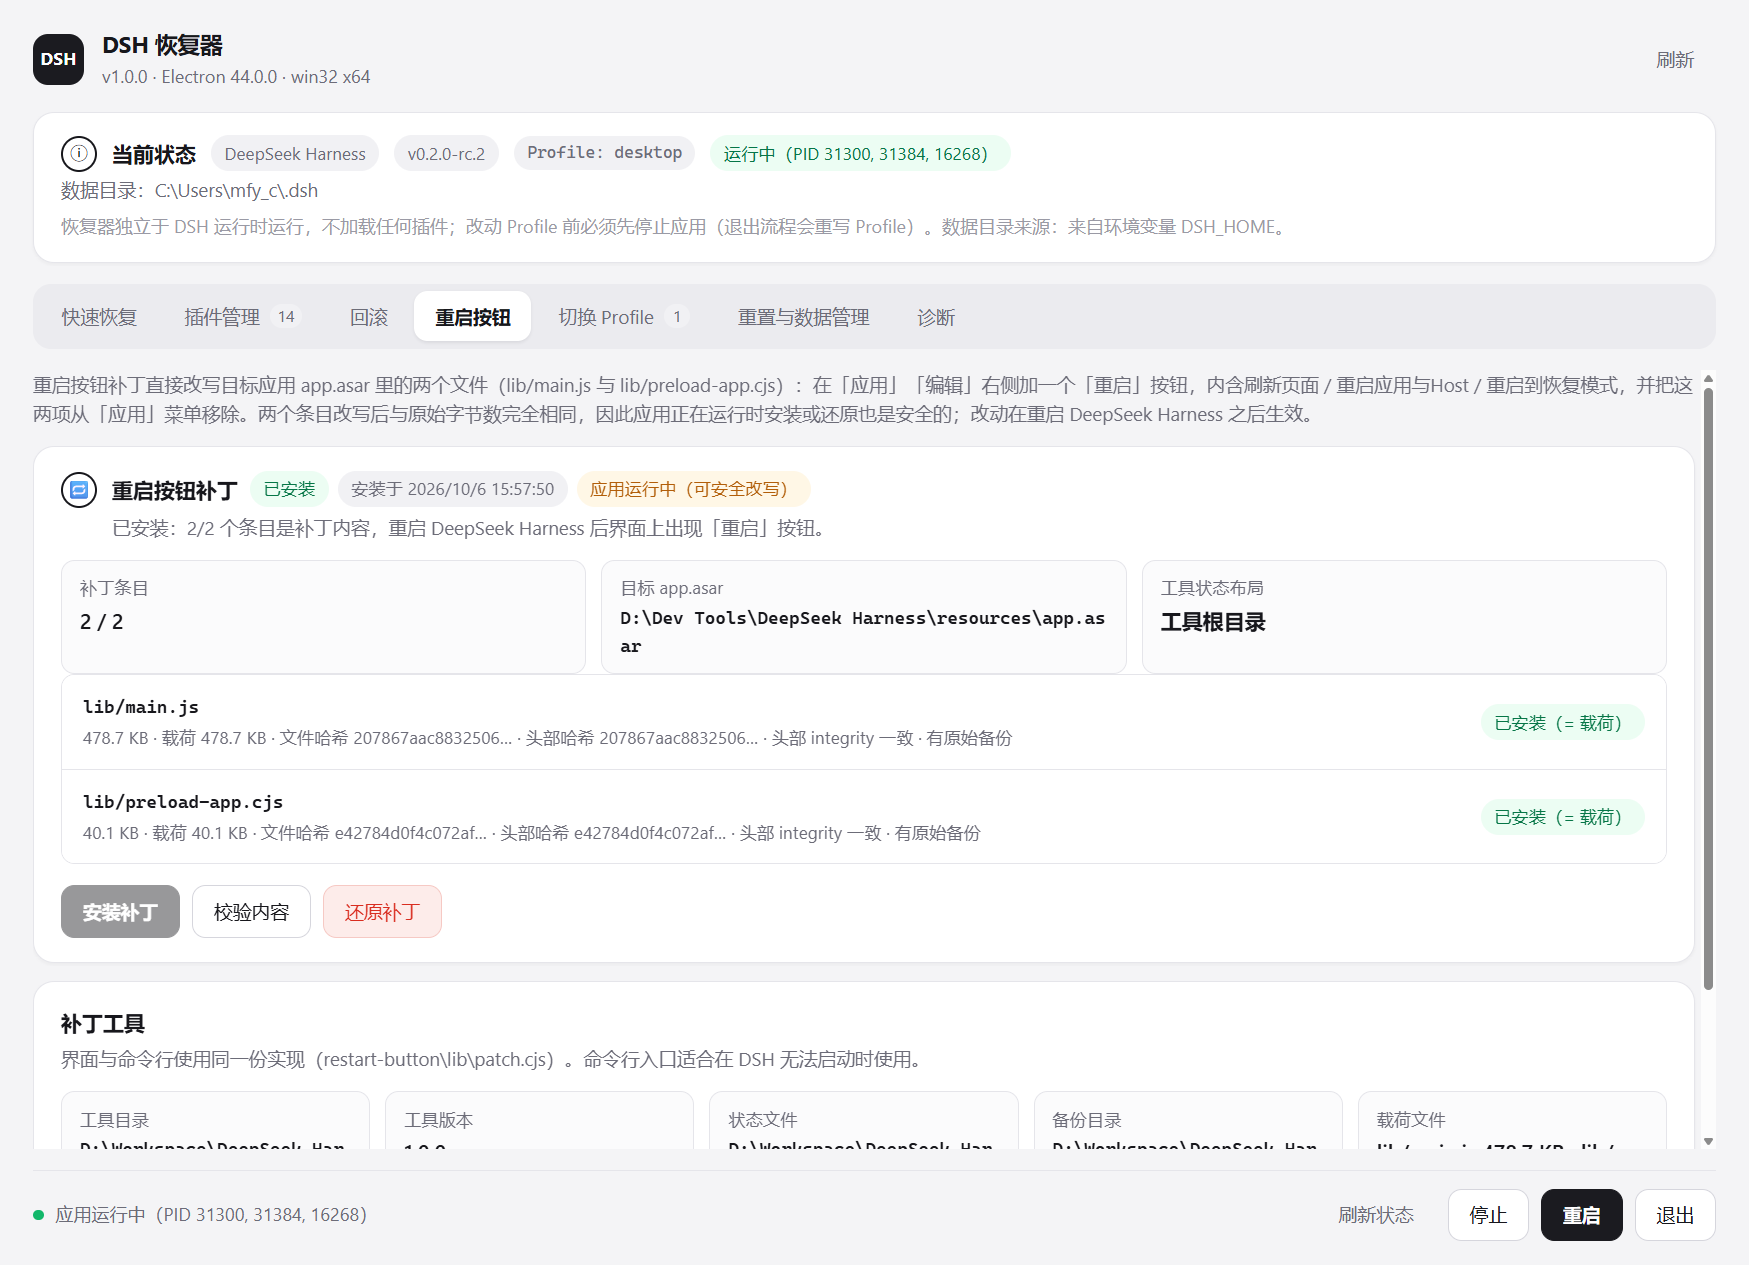
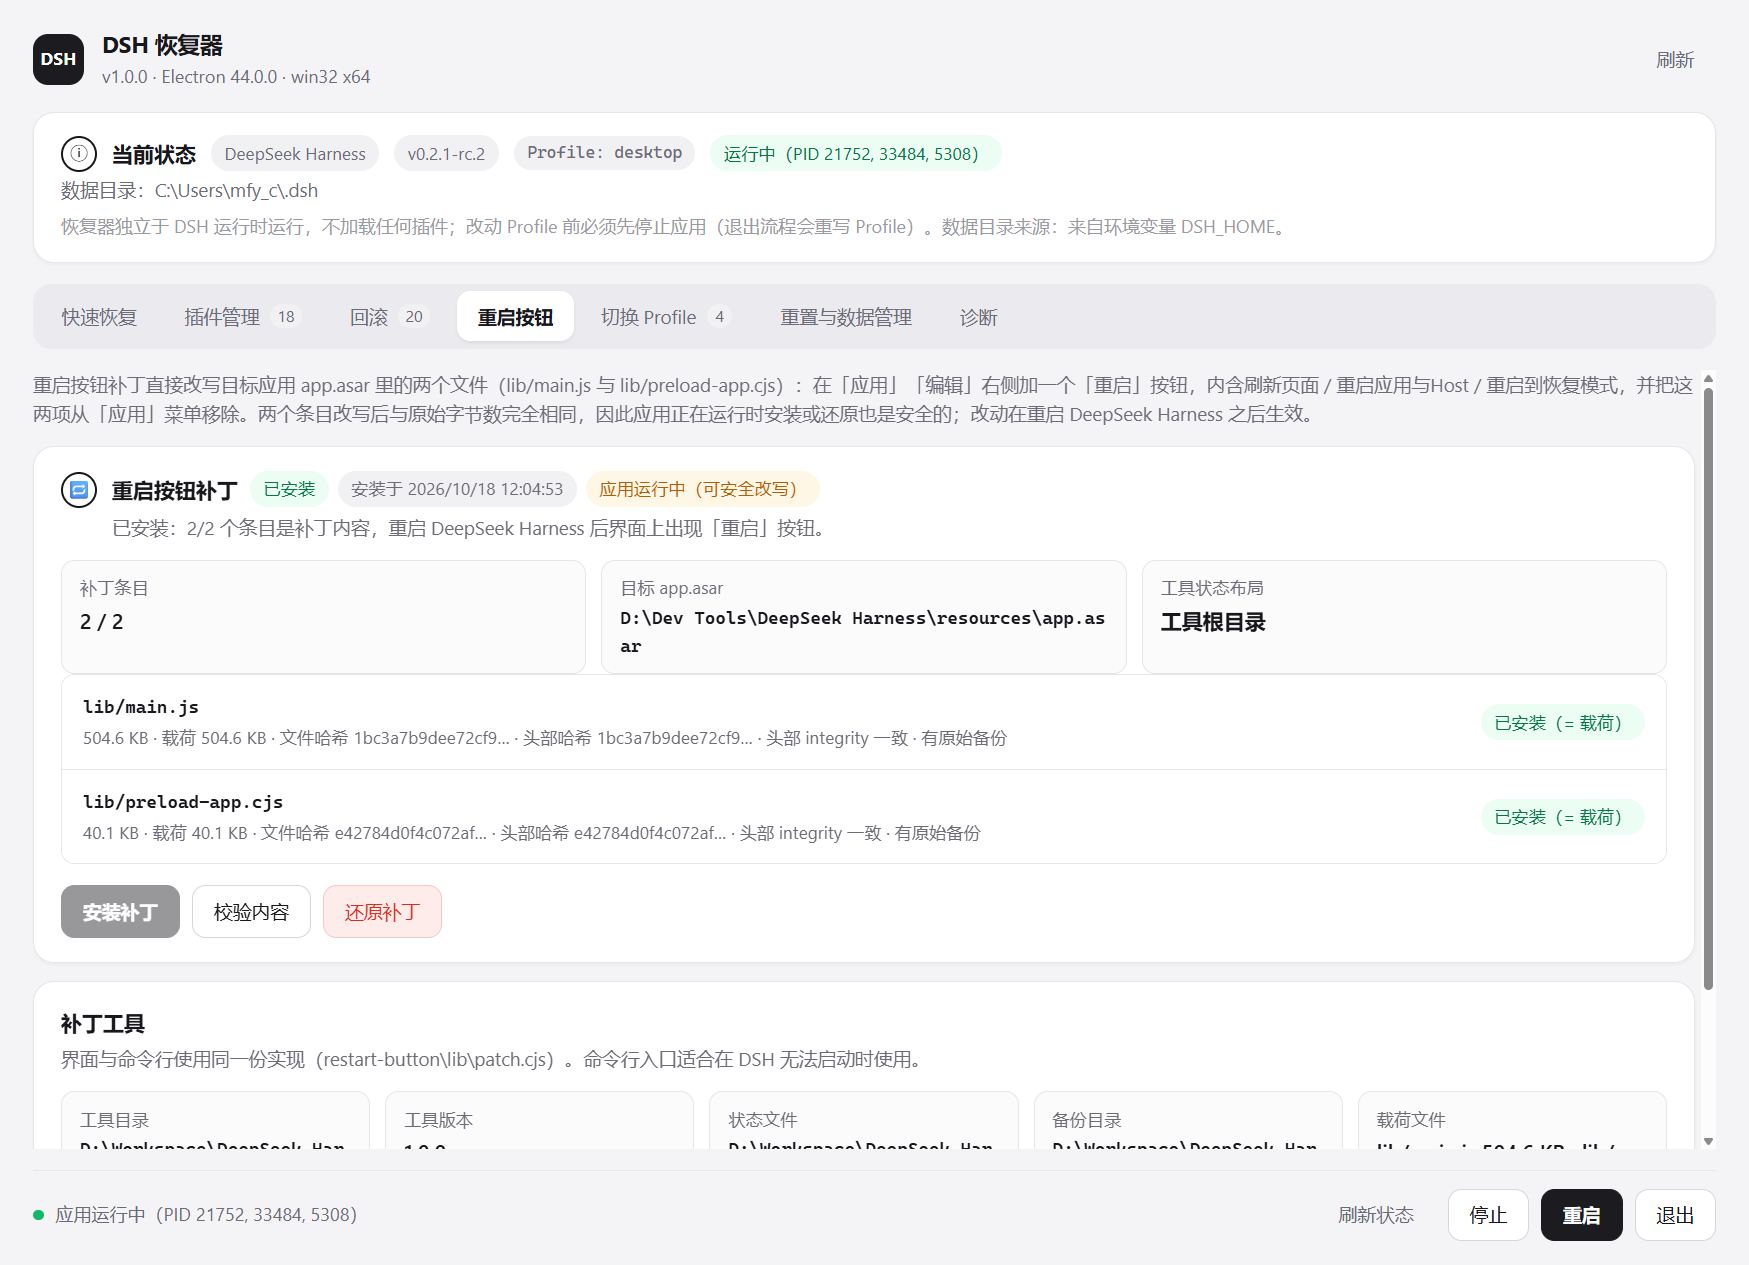
文档: 截图刷新为五个页签、补上 0.2.1-rc.2 与本次改动、新增版本记录
- docs/ 换成 --ui-check 导出的真实截图：快速恢复 / 插件管理 / 回滚 / 重启按钮 / 诊断，替换过期的 console-overview.png（旧界面、版本号还是 2.0.17 时代）。

- ui-check 增加快速恢复页的附加截图，README 自检表同步为四张。

- restart-button/README 更新到 0.2.1-rc.2：条目长度 516716/41075、载荷哈希、asar 182794869 B，并记录本次副本往返证据（a906284c… → revert 47874618… → apply 回 a906284c…，verify 0 失败）。

- 新增「官方更新后重打补丁」的四步顺序（含必须先搬走旧 backup 的坑）。

- README 新增版本记录与 ELECTRON_RUN_AS_NODE 自检注意事项。

diff --git a/app/main.js b/app/main.js
@@ -146,10 +146,10 @@ async function runUiCheck({ shot }) {
   await win.webContents.executeJavaScript("document.querySelector('[data-action=\"tab\"][data-arg=\"restart\"]').click()");
   await sleep(400);
 
-  // Capture each panel that gained a one-click button, so a ui-check run also
-  // leaves visual evidence for those two screens.
+  // Capture each panel that gained a one-click button (plus the overview
+  // panel), so a ui-check run also leaves visual evidence for those screens.
   const extraShots = {};
-  for (const [panelId, suffix] of [["plugins", "plugins"], ["checkpoints", "checkpoints"], ["diagnostics", "diagnostics"]]) {
+  for (const [panelId, suffix] of [["quick", "quick"], ["plugins", "plugins"], ["checkpoints", "checkpoints"], ["diagnostics", "diagnostics"]]) {
     await win.webContents.executeJavaScript(`document.querySelector('[data-action="tab"][data-arg="${panelId}"]').click()`);
     await sleep(400);
     const file = shot.replace(/\.png$/i, `-${suffix}.png`);

diff --git a/restart-button/README.md b/restart-button/README.md
@@ -4,7 +4,7 @@
 > 同一份实现既提供**恢复器界面里的「重启按钮」页签**（一键安装 / 校验 / 还原），
 > 也保留下面这套**命令行入口**（DSH 完全起不来、连恢复器都不想开时用）。
 
-给官方 **DeepSeek Harness** 桌面壳（`@deepseek-ai/dsh-desktop` 0.2.0-rc.2）的标题栏菜单栏
+给官方 **DeepSeek Harness** 桌面壳（`@deepseek-ai/dsh-desktop` 0.2.1-rc.2）的标题栏菜单栏
 加一个 **「重启」** 按钮，位置在「应用」「编辑」右侧。
 
 菜单结构变化（只动这两处）：
@@ -78,7 +78,7 @@ patch.revert({ archive });   // 用备份字节还原
 因此任何改变文件长度的写法都会平移后续所有条目，**正在运行的窗口会开始读到错位数据**；
 新增文件同样会让头部 JSON 变长、平移全部偏移。本工具因此只做一件事：
 
-> 用**长度完全等于头部 `size`** 的字节，原地覆盖 `lib/main.js`（490173 B）与
+> 用**长度完全等于头部 `size`** 的字节，原地覆盖 `lib/main.js`（516716 B）与
 > `lib/preload-app.cjs`（41075 B），并把头部里这两个条目的 `integrity.hash` / `blocks[]`
 > 哈希串替换为新内容的 sha256（同为 64 个十六进制字符，长度不变）。
 
@@ -100,10 +100,11 @@ node lib\build-payload.cjs --write  :: 生成 payload\lib\{main.js,preload-app.c
 ```
 
 - 源码基线：`..\.dsh-src\lib\{main.js,preload-app.cjs}`（本工作区里保存的**未打补丁**解包副本，
-  可用 `DSH_PATCH_SRC=<dir>` 覆盖）。
+  可用 `DSH_PATCH_SRC=<dir>` 覆盖）。当前这份基线是 **0.2.1-rc.2** 的
+  `.dsh-src\lib-v021-rc2\`，官方再更新时同样要先解出新源码再指过去。
 - 目标长度从 asar 头部实时读取，不写死；长度不符会直接报错中止。
-- 生成的载荷已通过 `node --check`；本次载荷 sha256：
[1 lines of base64/hex data omitted]
+- 生成的载荷已通过 `node --check`；当前载荷（0.2.1-rc.2）sha256：
[2 lines of base64/hex data omitted]
 
 ## 改动内容（逐处）
@@ -149,7 +150,7 @@ const launchRecoveryConsole = () => new Promise((resolve) => {
 | `lib/apply.cjs` | 上面那个库的 `status` / `verify` / `apply` / `revert` 命令行外壳 |
 | `lib/inspect.cjs`、`lib/list.cjs`、`lib/find-slack.cjs` | 侦查工具：列 asar 条目、看条目 sha256/integrity、找可裁剪的注释块 |
 | `payload/lib/*`、`payload/build.json` | 生成好的载荷字节与其哈希 |
-| `backup/*.orig`、`backup/manifest.json` | **安装前**两个条目的原始字节（约 531 KB），`revert` 的来源 |
+| `backup/*.orig`、`backup/manifest.json` | **安装前**两个条目的原始字节（516716 + 41075 ≈ 545 KB），`revert` 的来源 |
 | `state.json` | 最近一次 `apply` 的记录（时间、哈希、头部哈希串更新处数） |
 | `config.cmd`、`install.cmd`、`status.cmd`、`verify.cmd`、`revert.cmd` | 命令行入口（自动查找 node，`DSH_ASAR` 可覆盖目标） |
 
@@ -157,14 +158,16 @@ const launchRecoveryConsole = () => new Promise((resolve) => {
 
 ## 已验证的事实
 
-1. **等长**：载荷长度 490173 / 41075，与头部 `size` 完全一致；`apply` 对长度不符的情况直接中止，
+1. **等长**：载荷长度 516716 / 41075，与头部 `size` 完全一致；`apply` 对长度不符的情况直接中止，
    且在写任何字节之前完成备份。
-2. **可逆（整包级别）**：在 asar 副本上做 `apply` → `verify` → `revert`，
[1 lines of base64/hex data omitted]
-   并入恢复器后又用**界面按钮所走的同一套代码**（`app\backend\restart-button.js`）复测过一遍：
-   先用真实备份把副本还原成补丁前状态（得到的就是上面那个 `3f5cc17f…`），再 `apply`（changed 2）→
-   `verify`（failures 0）→ `revert`（touched 2），整包再次逐字节等于 `3f5cc17f…`，
-   且临时副本产生的 scoped 备份/状态文件已清理干净。
+2. **可逆（整包级别）**：在 asar **副本**上做 `revert` → `apply` → `verify`，
+   两次改写各动 2 个条目，最后整包 sha256 与操作前**完全相同**：
[2 lines of base64/hex data omitted]
+   - `apply`（changed 2）→ 又回到 `a906284c…`，`verify` failures 0；副本与临时文件随后删除。
+   早期版本（0.2.0-rc.2）上也做过同样的 `apply → verify → revert` 往返，当时复原到
[1 lines of base64/hex data omitted]
+   并入恢复器后又用**界面按钮走的同一套代码**（`app\backend\restart-button.js`）复测过一遍。
 3. **头部自洽**：两个条目的 `integrity.hash` 与 `blocks[0]` 都被同步为新内容哈希，
    回读校验为「头部 integrity 与内容一致（1 块）」，`node --check` 通过。
 4. **语义核对**：`git diff --no-index ..\.dsh-src\lib\<file> payload\lib\<file>` 的 8+5 个 hunk
@@ -182,11 +185,16 @@ const launchRecoveryConsole = () => new Promise((resolve) => {
 
 - **必须重启 DSH 才生效**：`lib/main.js` / `lib/preload-app.cjs` 只在启动/建窗时读取。
   重启会结束当前这个会话（我运行在 DSH 内部），所以最终效果需要你重启后确认。
-- **官方更新会覆盖 asar**：DSH Desktop 升级后 `resources\app.asar` 会被替换，补丁消失，
-  需要重新 `install.cmd`（载荷长度从新头部读取，若上游改了这两个文件，可能要先更新 `.dsh-src` 基线）。
+- **官方更新会覆盖 asar**：DSH Desktop 升级后 `resources\app.asar` 会被替换，补丁消失，需要重打。
+  正确顺序（本机 0.2.0-rc.2 → 0.2.1-rc.2 时踩过）：
+  1. 解出官方新的 `lib/main.js`、`lib/preload-app.cjs` 到 `.dsh-src\lib-v<版本>\`；
+  2. **先把旧的 `backup\` 整目录搬走**——`apply` 只保留"首份备份"，留着旧版备份会让 `revert` 因长度不符失败；
+  3. `set DSH_PATCH_SRC=<新目录>` 后跑 `node lib\build-payload.cjs --write`（长度从新头部读，不符会报错中止）；
+  4. `node lib\apply.cjs apply`，再 `status` / `verify` 确认。asar 大小与偏移全程不变。
 - **请用本工具的 `revert.cmd`**，不要用 `dsh-restart-menu-patch\revert.cmd`：后者会把 asar
   回滚到更早的原始构建，连「重启」按钮一起抹掉。
 - 安装/还原只改 `resources\app.asar` 里这两个条目（外加它们头部的哈希串），
   不触碰装机目录里的其它文件；`app.asar.dsh-restart-backup`（旧工具的整包备份）保持不动。
 - 恢复器路径可用环境变量 `DSH_RECOVERY_CONSOLE` 覆盖（在 DSH 的进程环境里设置）。
-- 仅针对本机这个版本（`@deepseek-ai/dsh-desktop` 0.2.0-rc.2，asar 121348951 B，条目 lib/main.js 490173 B / lib/preload-app.cjs 41075 B）。
+- 仅针对本机这个版本（`@deepseek-ai/dsh-desktop` 0.2.1-rc.2，asar 182794869 B，
+  条目 lib/main.js 516716 B / lib/preload-app.cjs 41075 B）。

diff --git a/README.md b/README.md
@@ -1,10 +1,17 @@
 # DSH 恢复器（dsh-recovery）
 
 一个**独立的桌面恢复控制台**，让 DeepSeek Harness 在无法正常启动时仍然可以被修复。
-项目拥有（七个标签页：快速恢复 / 插件管理 / 回滚 /
-重启按钮 / 切换 Profile / 重置与数据管理 / 诊断）。
+七个标签页：快速恢复 / 插件管理 / 回滚 / 重启按钮 / 切换 Profile / 重置与数据管理 / 诊断。
 
-![恢复器界面](docs/console-overview.png)
+![快速恢复](docs/quick-recovery-tab.png)
+
+| 插件管理 | 回滚 |
+| --- | --- |
+| ![插件管理](docs/plugins-tab.png) | ![回滚](docs/checkpoints-tab.png) |
+
+| 重启按钮 | 诊断 |
+| --- | --- |
+| ![重启按钮](docs/restart-button-tab.png) | ![诊断](docs/diagnostics-tab.png) |
 
 ## 为什么不做成 DSH 插件
 
@@ -37,6 +44,19 @@ setup-runtime.cmd --list
 .runtime\dsh-recovery.exe --ui-check              :: 截图默认写 .runtime\ui-restart-tab.png
 .runtime\dsh-recovery.exe --ui-check --ui-shot=D:\shot.png
 ```
+
+> 这三条自检在 PowerShell 里要**先清掉 `ELECTRON_RUN_AS_NODE`**
+> （DSH 会把它注入子进程环境，值为 `1` 时 Electron 会以纯 Node 模式启动，
+> 把 `--verify` 当成自己的未知开关并报 `bad option: --verify`）：
+>
+> ```powershell
+> Remove-Item Env:\ELECTRON_RUN_AS_NODE -ErrorAction SilentlyContinue
+> Start-Process .\.runtime\dsh-recovery.exe -ArgumentList '--verify' `
+>   -RedirectStandardOutput verify.json -RedirectStandardError verify.err.txt `
+>   -PassThru -Wait -NoNewWindow
+> ```
+>
+> `dsh-recovery.cmd` 已经替你做掉这一步，直接双击运行不受影响。
 
 启动参数（同时会被记住到 `dsh-recovery.config.json`）：
 
@@ -110,7 +130,7 @@ setup-runtime.cmd --list
 | --- | --- | --- |
 | `--self-check` | 只读链路：目标探测、Profile 清单与补丁解析、检查点列表、运行状态 | 完全不写 |
 | `--verify` | 全部写操作：插件启用/禁用/**一键启用全部（含补丁层 disabled 解除）**/卸载/还原/永久删除、检查点创建/恢复/删除/**一键删除全部**、**手动指定/移除安装位置**（含无效目录拒绝）、安全模式启动、停止（精确匹配进程）、诊断包导出 | 只写一次性 fixture 与 `.safemode\`，结束前自清理 |
-| `--ui-check` | 真开窗口渲染一遍界面：页签数量与名称、`window.recovery` 桥接口、两个「一键」按钮的存在与禁用态、**诊断页「安装位置」按钮**、点开「重启按钮」页签后的活动面板与按钮可用性，并截图（含插件管理 / 回滚 / 诊断三张附加截图） | 只写截图 |
+| `--ui-check` | 真开窗口渲染一遍界面：页签数量与名称、`window.recovery` 桥接口、两个「一键」按钮的存在与禁用态、**诊断页「安装位置」按钮**、点开「重启按钮」页签后的活动面板与按钮可用性，并截图（含快速恢复 / 插件管理 / 回滚 / 诊断四张附加截图） | 只写截图 |
 
 `--verify`（42 项检查）在每次运行时构造一个合成环境 `\.runtime\verify-<时间戳>\`：
 一份假的安装目录（`resources\app\package.json` 声明为 `@deepseek-ai/dsh-desktop`）和一份假的
@@ -147,7 +167,8 @@ dsh-recovery/
     renderer/             原生 DOM 渲染界面（index.html / app.js / styles.css）
   restart-button/         重启按钮补丁：lib/（asar + patch 库 + 载荷生成 + 命令行）、payload/、backup/、*.cmd
   .runtime/               生成的 Electron 运行时 + resources/app 目录联接 + userdata
-                          以及 --ui-check 的截图（ui-restart-tab*.png）
+                          以及 --ui-check 的截图（ui-restart-tab*.png，docs/ 里的图即由此导出）
+  docs/                   README 用的界面截图
   diagnostics/            导出的诊断包（按需创建）
   dsh-recovery.config.json 记住的目标/Profile/数据目录
 ```
@@ -168,3 +189,34 @@ dsh-recovery/
 - 「新建 Profile」只提示由 DSH 自身初始化，不在控制台里代建。
 - 诊断包导出的是日志与配置快照，不含崩溃内存转储。
 - 控制台不加载 DSH 运行时，因此看不到插件加载的实时原因（那部分原因在应用日志里）。
+- 自动扫描只找常见根目录下的一层子目录；装在别处需要用**诊断 → 安装位置**手动指定（见上）。
+
+## 版本记录
+
+### 2026-10-18 · 手动指定安装位置
+
+- 诊断页新增「安装位置」卡：**选择安装目录… / 选择应用主程序…**，可切换、可移除手动指定的位置；
+  `adoptTarget` 接受安装目录、`resources` 子目录或 exe 路径，无效位置报错且不写配置。
+- 快速恢复页在「未找到目标应用」时也提供这两个入口。
+- `--verify` 增至 **42 项**（新增 8 项目标解析检查），`--ui-check` 增断言与第 4 张截图。
+
+### 2026-10-18 · 适配 DSH 0.2.1-rc.2
+
+- 官方更新把 `app.asar` 换成 182794869 字节的新版本，旧补丁随之丢失；按新源码
+  （`.dsh-src\lib-v021-rc2`）重新生成载荷：`lib/main.js` 490173 → **516716** 字节，
+  `lib/preload-app.cjs` 仍 41075 字节，依旧**等长原地改写**，asar 大小与所有偏移未变。
[2 lines of base64/hex data omitted]
+- 升级后重打补丁的**正确顺序**：先搬走旧的 `restart-button\backup\`（否则会保留旧版本的
+  "首份备份"，`revert` 因长度不符失败），再 `build-payload.cjs --write`，最后 `apply.cjs apply`。
+
+### 2026-10-18 · 一键启用全部插件 / 一键删除全部检查点
+
+- 两个长列表页顶部各加一条**吸顶操作条**（列表再长也不用滚到底）。
+- 「一键启用」会同时把 `cordis.patch.yml` 里所有 `disabled: true` 改成 `false`
+  （只替换该行标量，缩进/注释/`config.enabled` 与换行风格原样保留）。
+
+### 2026-10-06 · 首个版本
+
+- 七个标签页、独立 Electron 运行时、三种自检、重启按钮补丁（界面 + 命令行）。
+
